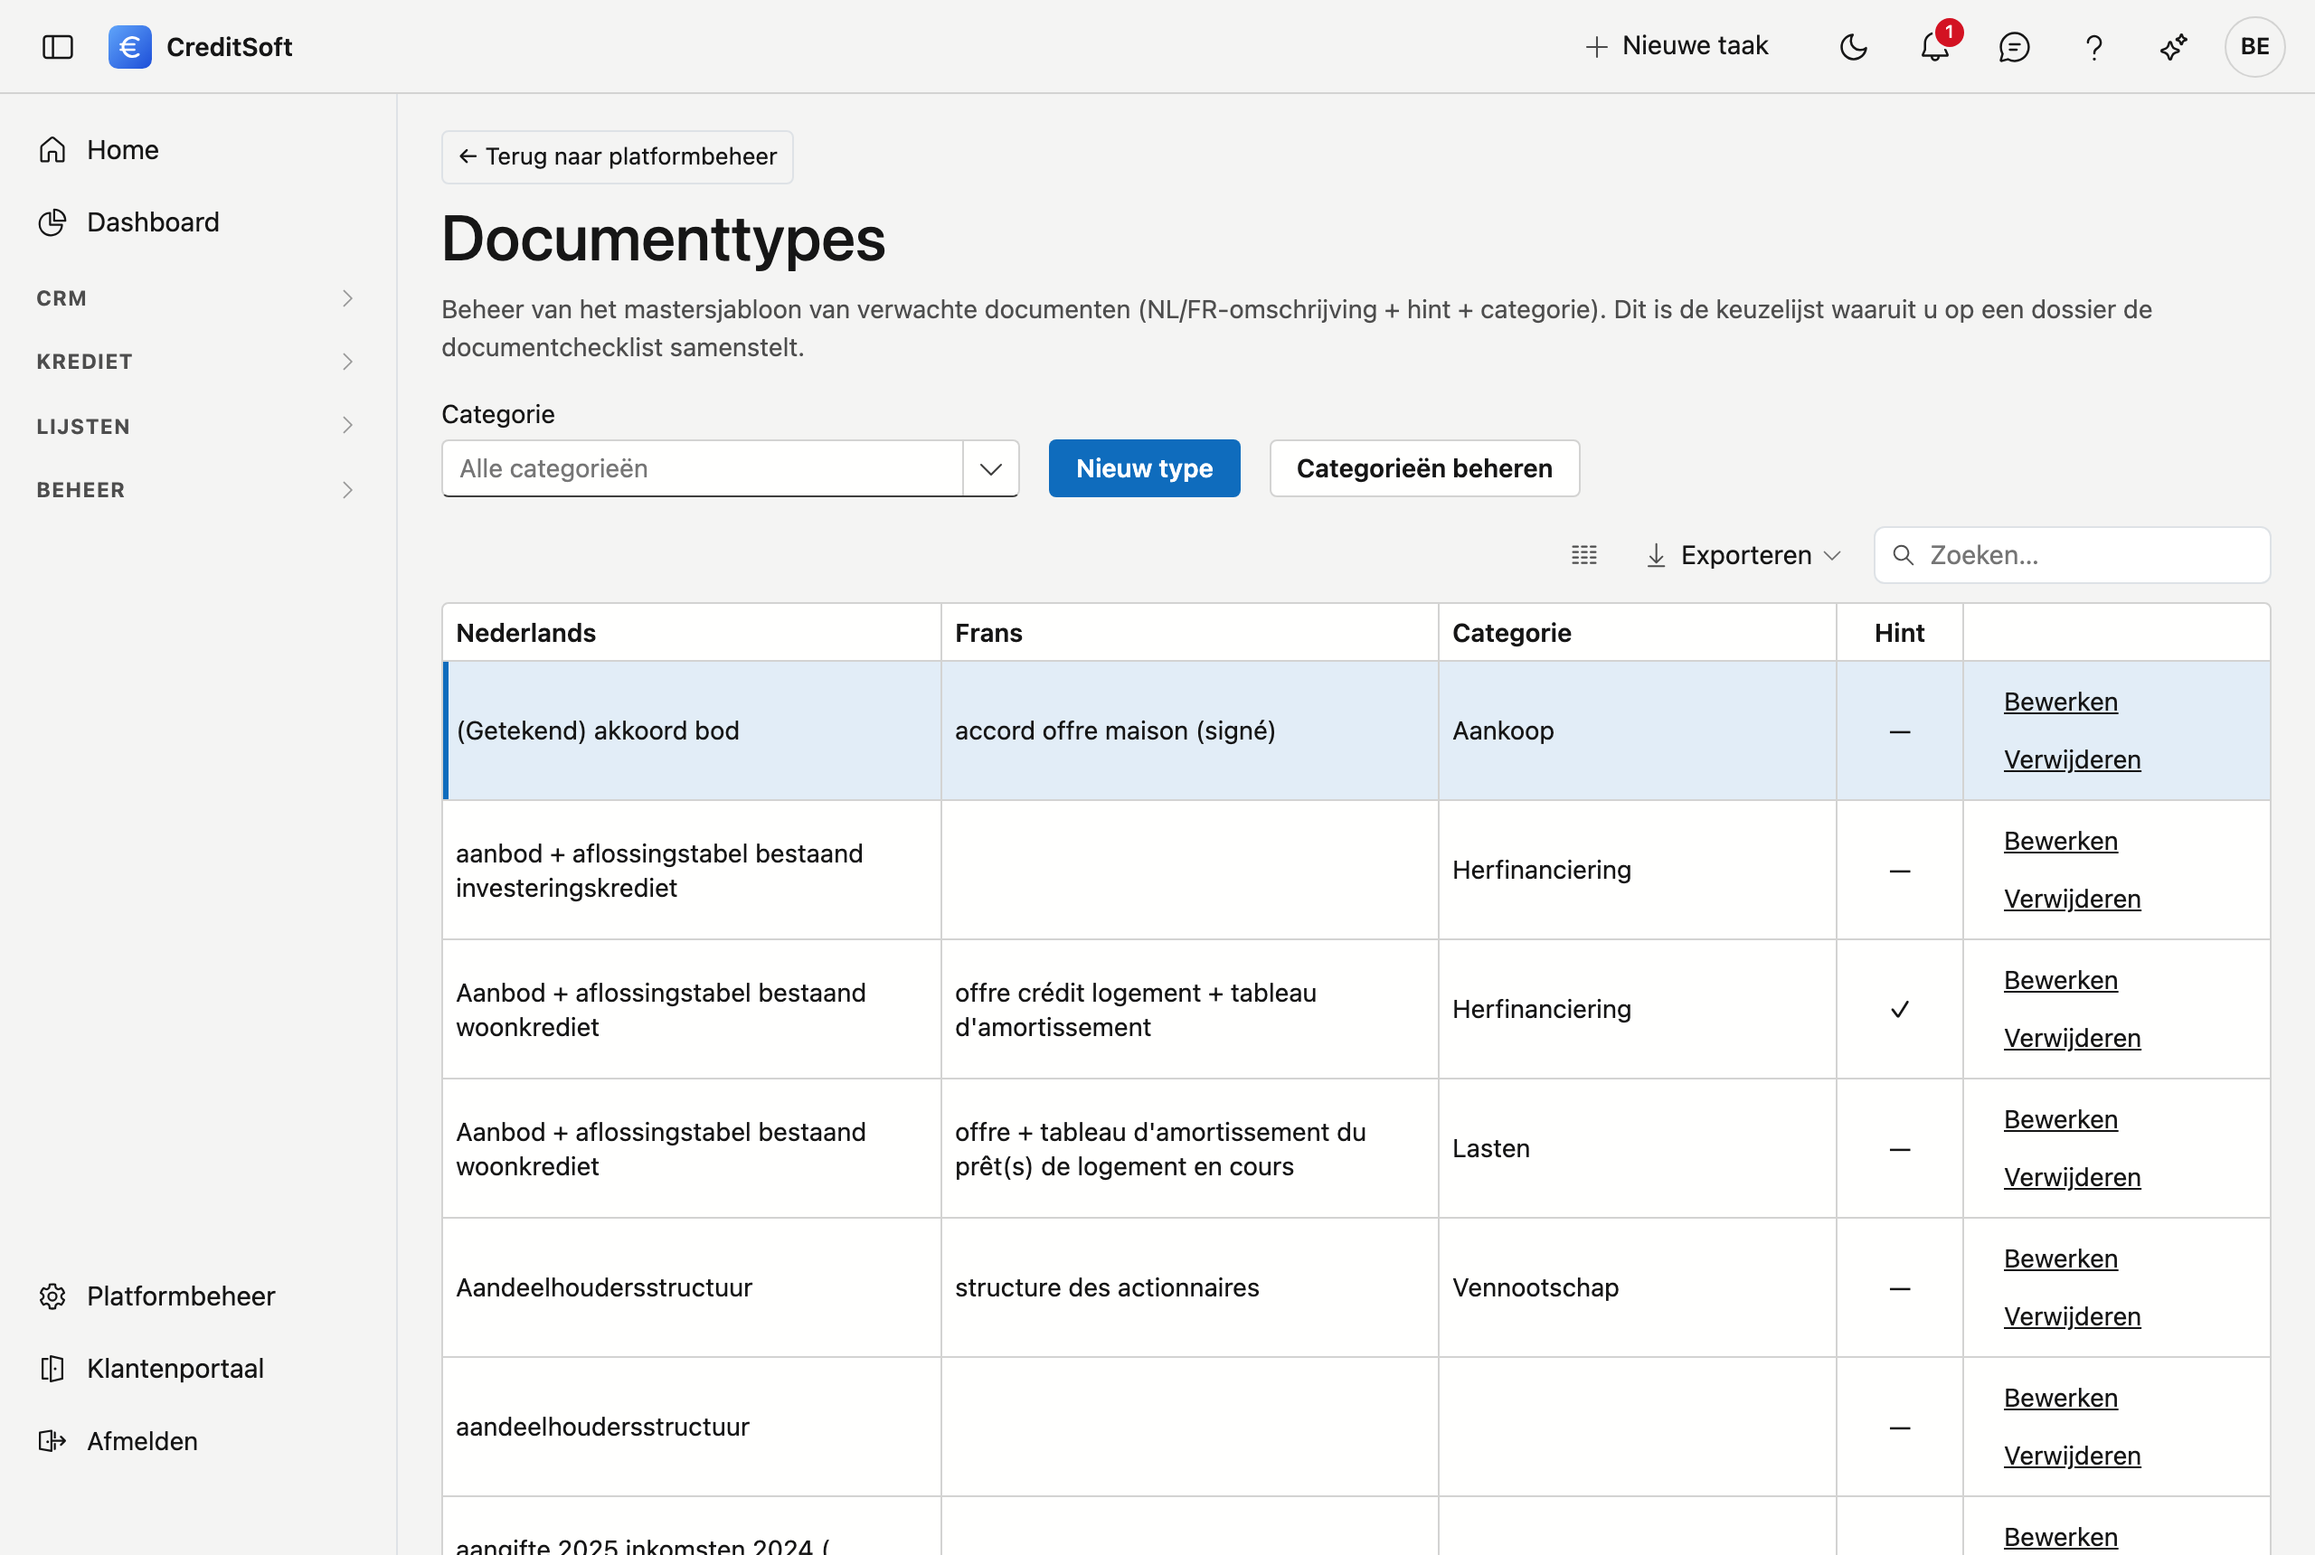
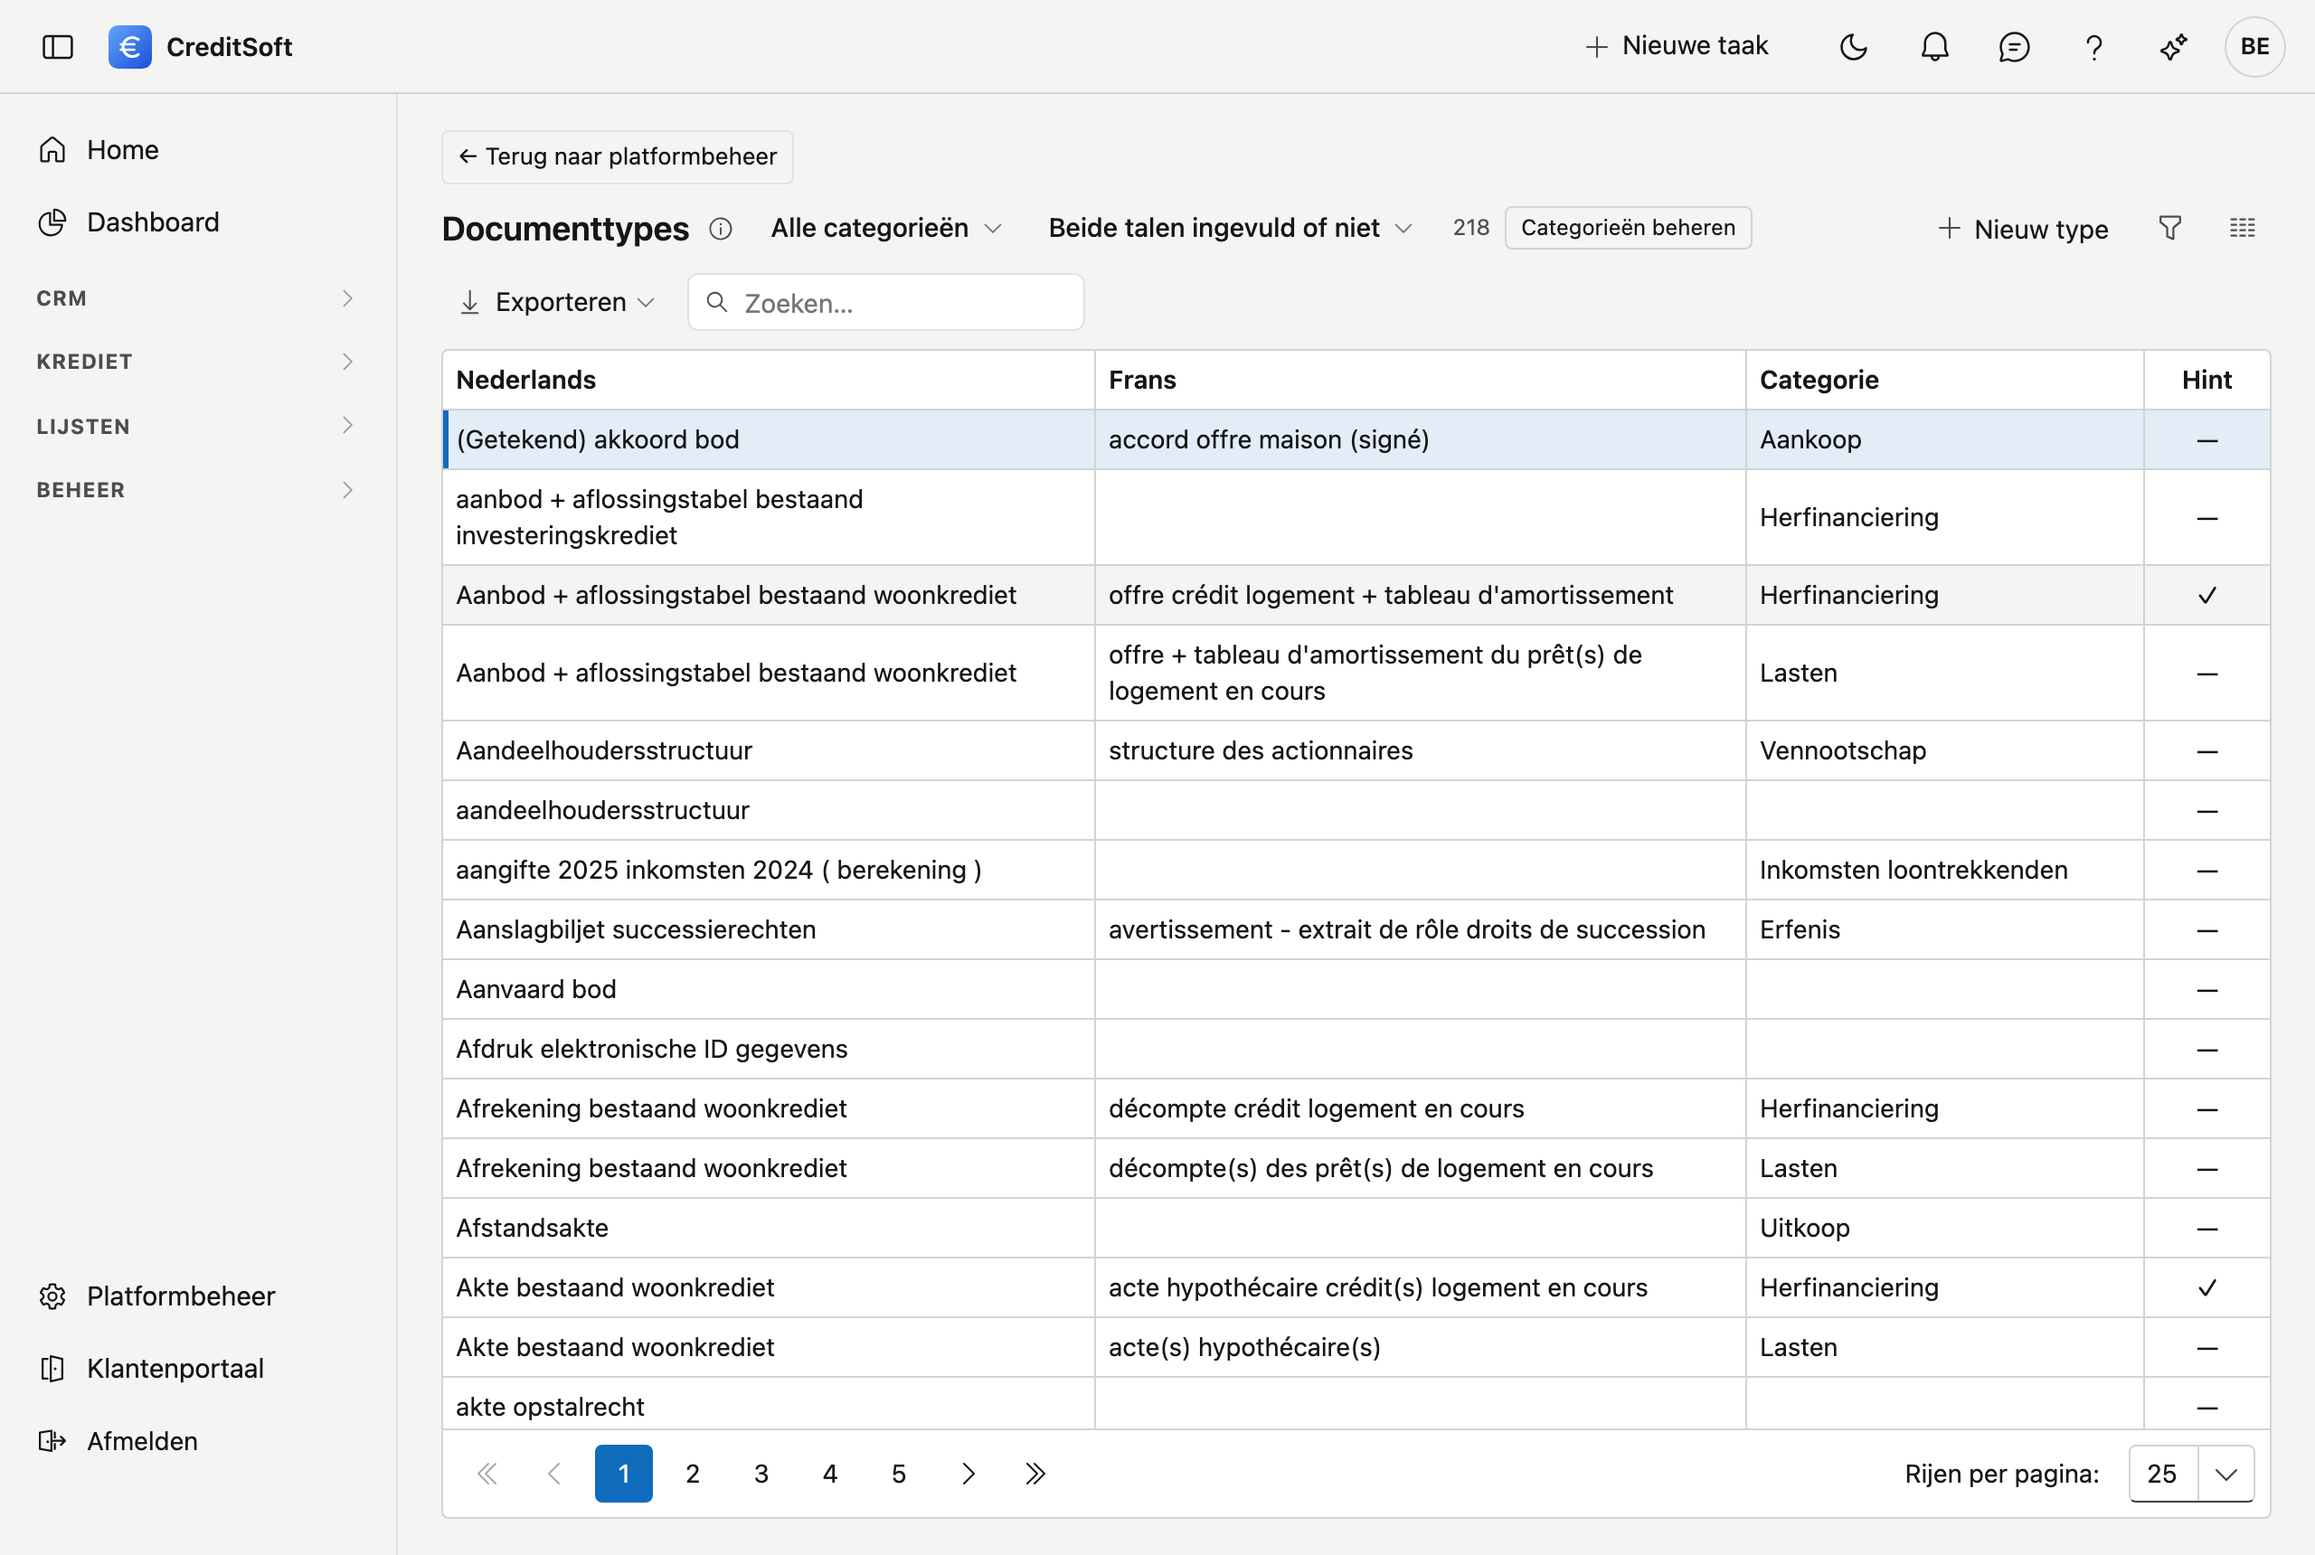
Documenttypes-handleiding klaar voor de vrijgave, en een verkeerde wegwijzer weg
⚠ De eerste instructie klopte niet: "Klik in de zijbalk op Beheer en dan op
Documenttypes." Die groep draagt enkel Tenants, Conversie en Instellingen; dit
scherm is sinds 15/08 een tegel op Platformbeheer. Wie de handleiding volgde,
zocht op een plaats waar het niet staat. Rechtgezet in beide talen — en dezelfde
zin stond in keuzelijsten.md/.fr.md, dus die is mee rechtgezet.

Verder van 26 naar 43 regels: de twee filters (categorie en "zonder Franse
omschrijving"), dat dubbelklikken bewerkt en verwijderen archiveert, en het
categoriebeheer met de kolom Types — inclusief waarom dat cijfer er staat.

Twee beelden: het venster Categorieën beheren is nieuw, het lijstbeeld is
vernieuwd na de opruiming van de werkbalk. Beide NL en FR.

diff --git a/docs/beheer/documenttypes.fr.md b/docs/beheer/documenttypes.fr.md
@@ -6,7 +6,7 @@ Vous gérez ici le **modèle maître** des documents attendus. C'est la liste à
 
 ## Ouvrir l'écran
 
-Dans la barre latérale, cliquez sur **Gestion**, puis sur **Types de documents**.
+En bas à gauche, cliquez sur **Administration**, puis sur la tuile **Types de documents**, dans le groupe *Données*.
 
 ## Ce que vous renseignez par type
 
@@ -17,6 +17,25 @@ Dans la barre latérale, cliquez sur **Gestion**, puis sur **Types de documents*
 | **Catégorie** | Regroupe les types sur la check-list, pour qu'une longue liste reste lisible |
 
 L'**indication** en vaut la peine : elle figure là où quelqu'un hésite, et évite un appel téléphonique.
+
+## Parcourir la liste
+
+Avec **218 types**, la recherche devient plus importante que le défilement. Deux filtres figurent donc en haut de la liste :
+
+- **Catégorie** — n'affiche que les types d'une seule catégorie.
+- **Sans description française** — montre ce qu'il reste à traduire. Un type sans texte français n'est pas cassé : il affiche simplement le néerlandais. Mais si vous travaillez dans les deux langues, vous voudrez vider cette liste, et ce filtre vous montre aussitôt lesquels.
+
+Le compteur à côté indique combien sont affichés sur le total.
+
+**Double-cliquez** une ligne pour la modifier. La **suppression** se fait dans cette même fenêtre ; le type est archivé, pas effacé — les dossiers qui le portent déjà continuent à l'afficher.
+
+## Gérer les catégories
+
+Le bouton **Gérer les catégories** ouvre la liste des catégories. Une catégorie porte elle aussi un nom néerlandais et un nom français ; si vous laissez le français vide, l'application affiche le néerlandais.
+
+![La fenêtre Gérer les catégories : une liste reprenant par catégorie le nom néerlandais, le nom français et une colonne Types indiquant le nombre de types de documents qui en relèvent, avec en haut un champ de recherche et le bouton Nouvelle catégorie.](../images/documenttypes-categorieen-fr.png "Les catégories dans lesquelles vous regroupez les types de documents"){ .volle-breedte }
+
+La colonne **Types** indique combien de types de documents relèvent de chaque catégorie. Ce chiffre a sa raison d'être : supprimer une catégorie qui porte encore des types est impossible. L'écran vous dit alors combien font obstacle, afin que vous puissiez d'abord les déplacer.
 
 ## Comment cela se répercute sur un dossier
 

diff --git a/docs/beheer/documenttypes.md b/docs/beheer/documenttypes.md
@@ -6,7 +6,7 @@ Hier beheert u het **mastersjabloon** van verwachte documenten. Dat is de lijst 
 
 ## Het scherm openen
 
-Klik in de zijbalk op **Beheer** en dan op **Documenttypes**.
+Klik links onderaan op **Platformbeheer** en dan op de tegel **Documenttypes**, in de groep *Gegevens*.
 
 ## Wat u per type invult
 
@@ -17,6 +17,25 @@ Klik in de zijbalk op **Beheer** en dan op **Documenttypes**.
 | **Categorie** | Groepeert de types op de checklist, zodat een lange lijst overzichtelijk blijft |
 
 De **hint** is de moeite waard: die staat op de plaats waar iemand twijfelt, en scheelt een telefoontje.
+
+## De lijst doorzoeken
+
+Met **218 types** wordt zoeken belangrijker dan bladeren. Bovenaan de lijst staan daarom twee filters:
+
+- **Categorie** — toont enkel de types van één categorie.
+- **Zonder Franse omschrijving** — toont wat er nog te vertalen valt. Een type zonder Franse tekst is niet stuk: het toont dan gewoon de Nederlandse. Maar werkt u tweetalig, dan wilt u die lijst leeg krijgen, en met dit filter ziet u meteen welke.
+
+De teller ernaast zegt hoeveel er getoond worden van het totaal.
+
+**Dubbelklik** een rij om ze te bewerken. **Verwijderen** doet u in datzelfde venster; het type wordt gearchiveerd, niet gewist — dossiers waar het al op staat, blijven het gewoon tonen.
+
+## Categorieën beheren
+
+Achter de knop **Categorieën beheren** staat de lijst van categorieën. Ook een categorie heeft een Nederlandse en een Franse naam; laat u de Franse leeg, dan toont de app de Nederlandse.
+
+![Het venster Categorieën beheren: een lijst met per categorie de Nederlandse naam, de Franse naam en een kolom Types met het aantal documenttypes dat eronder hangt, met bovenaan een zoekveld en de knop Nieuwe categorie.](../images/documenttypes-categorieen.png "De categorieën waarin u de documenttypes groepeert"){ .volle-breedte }
+
+De kolom **Types** zegt hoeveel documenttypes er onder elke categorie hangen. Dat cijfer is er met een reden: een categorie verwijderen die nog types draagt, kan niet. U krijgt dan te zien hoeveel er in de weg staan, zodat u ze eerst kunt verplaatsen.
 
 ## Hoe dit doorwerkt op een dossier
 

diff --git a/BEELD-MANIFEST.md b/BEELD-MANIFEST.md
@@ -274,3 +274,10 @@ eerste ziet en bevat niets geheims; de stap met de QR staat in woorden beschreve
 standaard geen en ziet dan enkel een waarschuwing. In de **lokale** demo-tenant kreeg hij er daarom één, met
 `show_in_pickers = false` zodat hij niet als verantwoordelijke in andere beelden opduikt. De zes
 demo-medewerkers zijn bewust zonder wachtwoord aangemaakt en kunnen dus niet aanmelden.
+
+## Beheer → Documenttypes (`beheer/documenttypes.md`)
+
+- [x] `documenttypes.png` + `-fr` — de lijst met de twee filters, de teller en de knop Categorieën beheren.
+      Vernieuwd 18/08/2026 na de opruiming (werkbalk in de lijst i.p.v. ernaast).
+- [x] `documenttypes-categorieen.png` + `-fr` — het venster Categorieën beheren met de kolommen Nederlands,
+      Frans en **Types**. Geplaatst 18/08/2026.

diff --git a/docs/beheer/keuzelijsten.fr.md b/docs/beheer/keuzelijsten.fr.md
@@ -6,7 +6,7 @@ Les listes de choix sont les valeurs qui apparaissent partout dans les fiches, d
 
 ## Ouvrir l'écran
 
-Dans la barre latérale, cliquez sur **Gestion**, puis sur **Listes de choix**.
+En bas à gauche, cliquez sur **Administration**, puis sur la tuile **Listes de choix**, dans le groupe *Données*.
 
 Choisissez en haut **quelle liste** vous voulez modifier. Les éléments de cette liste apparaissent en dessous.
 

diff --git a/docs/beheer/keuzelijsten.md b/docs/beheer/keuzelijsten.md
@@ -6,7 +6,7 @@ De keuzelijsten zijn de waarden die overal in de fiches in de keuzevelden versch
 
 ## Het scherm openen
 
-Klik in de zijbalk op **Beheer** en dan op **Keuzelijsten**.
+Klik links onderaan op **Platformbeheer** en dan op de tegel **Keuzelijsten**, in de groep *Gegevens*.
 
 Kies bovenaan **welke lijst** u wil bewerken. Daaronder verschijnen de items van die lijst.
 
